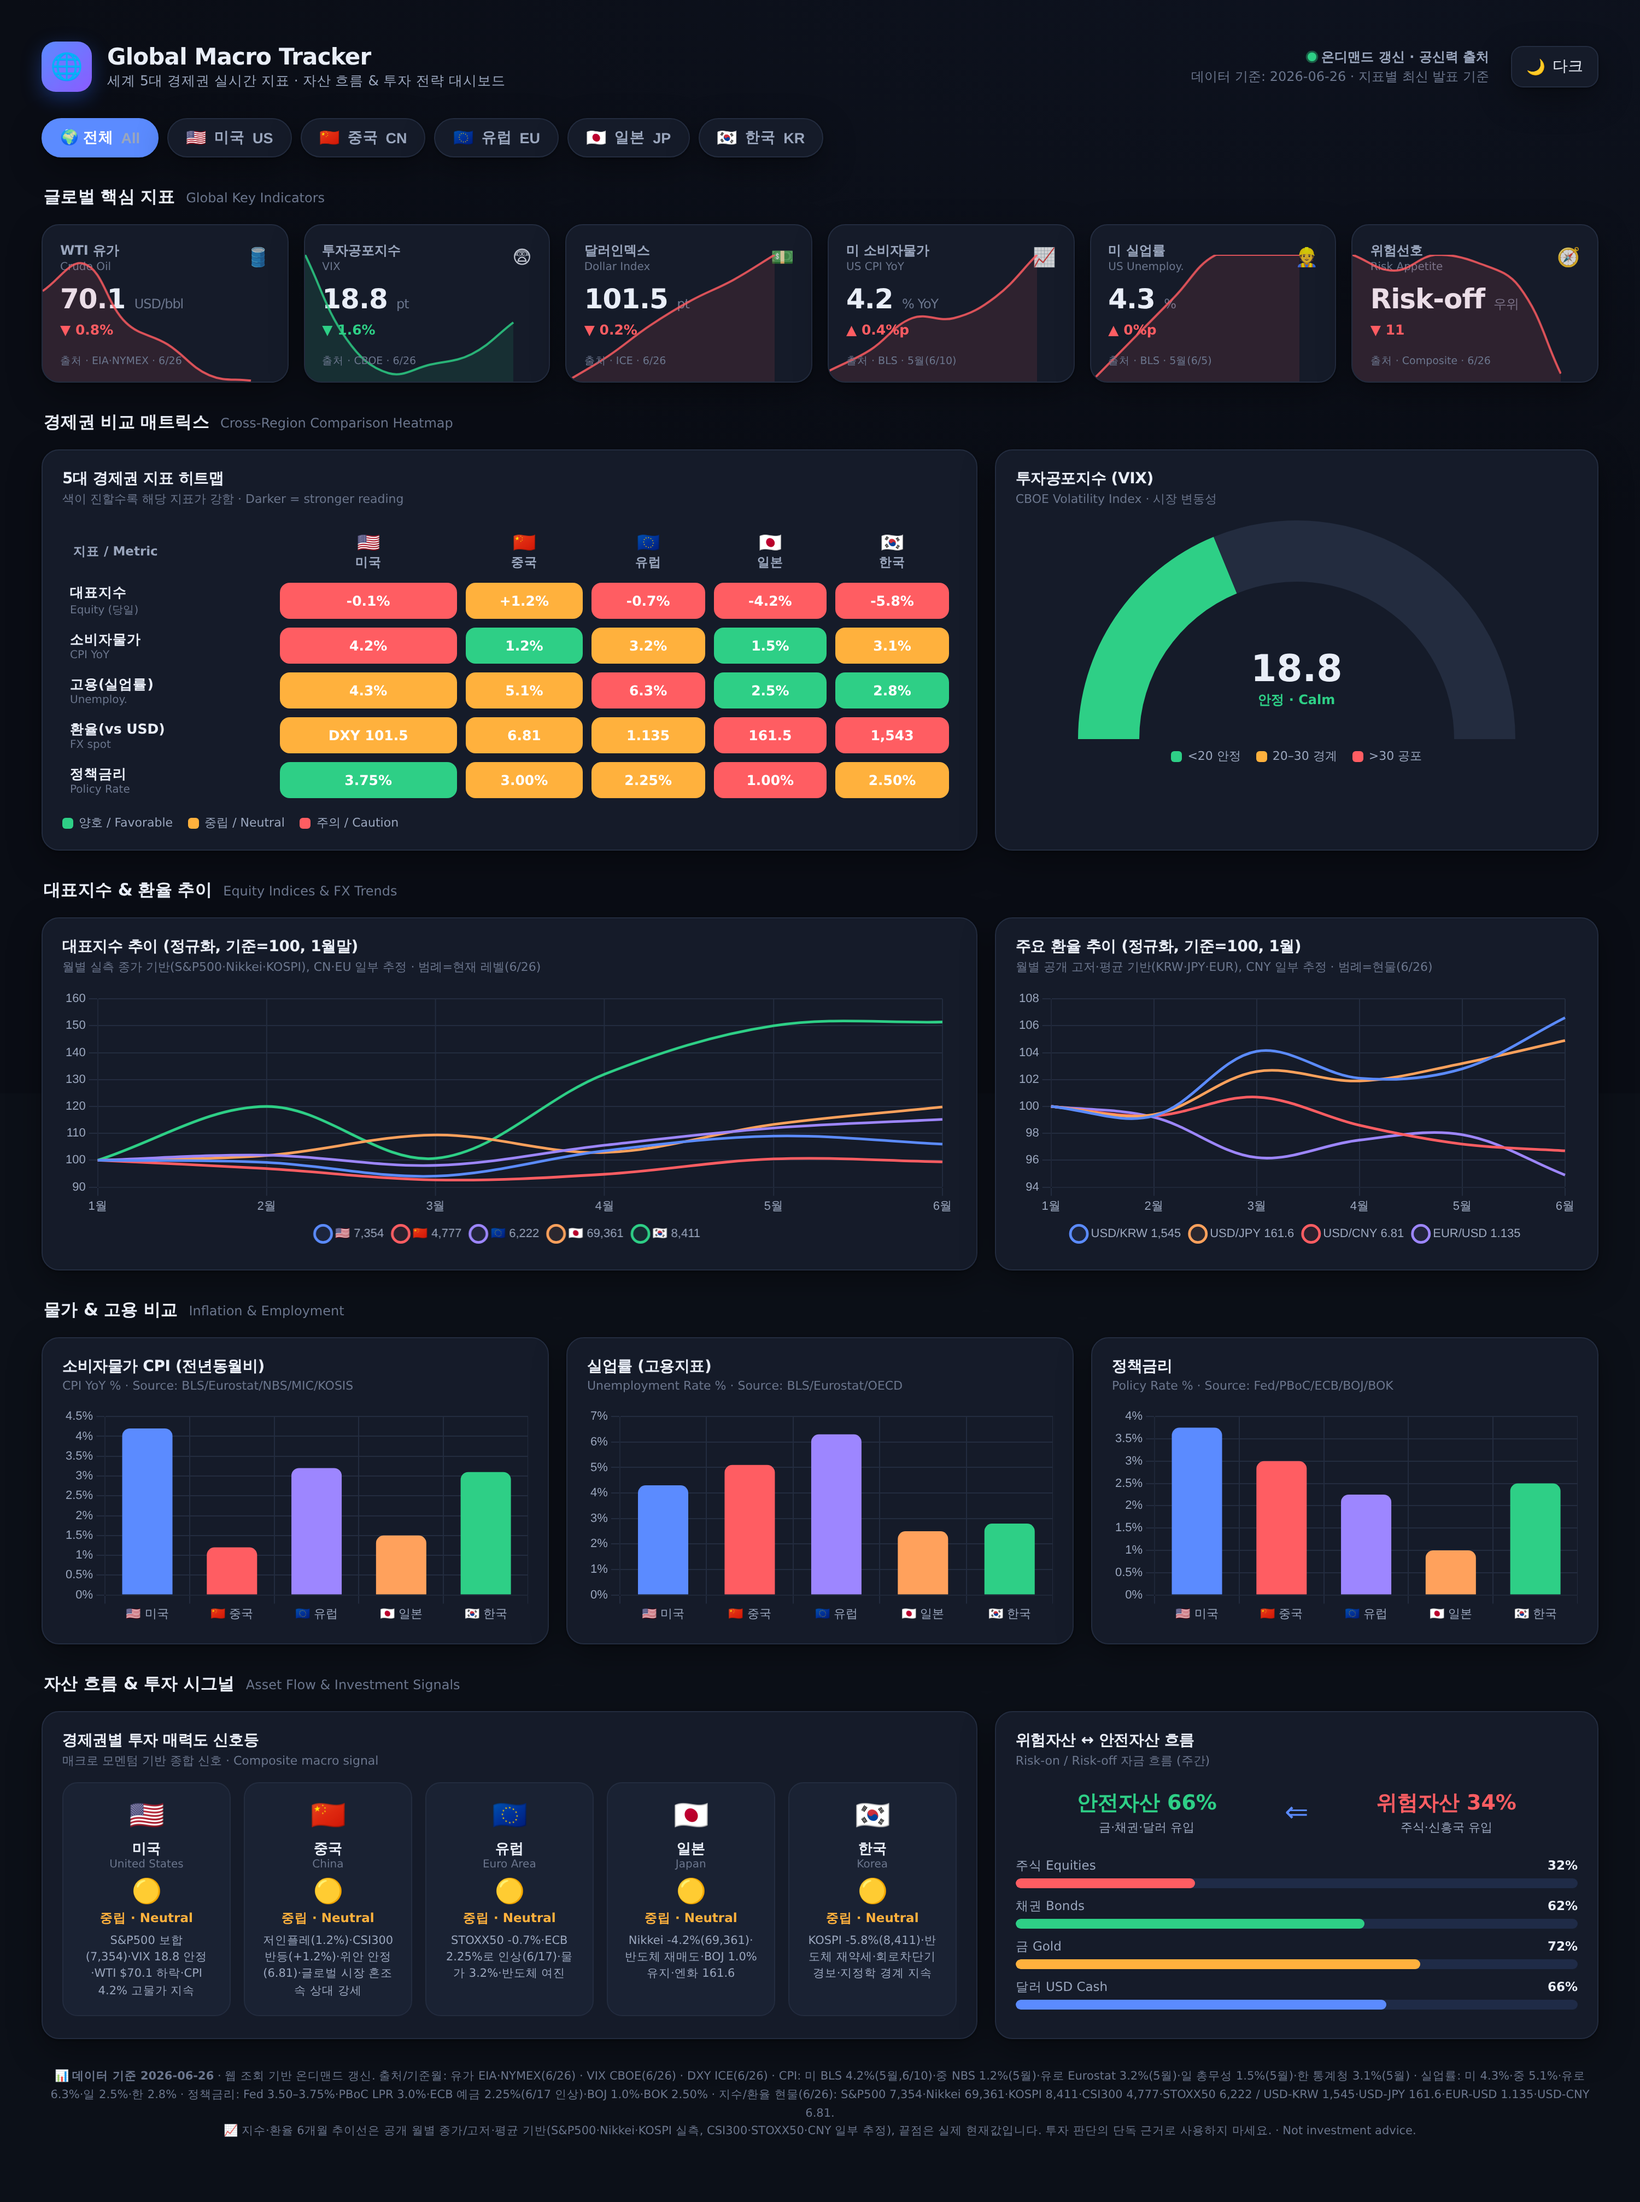
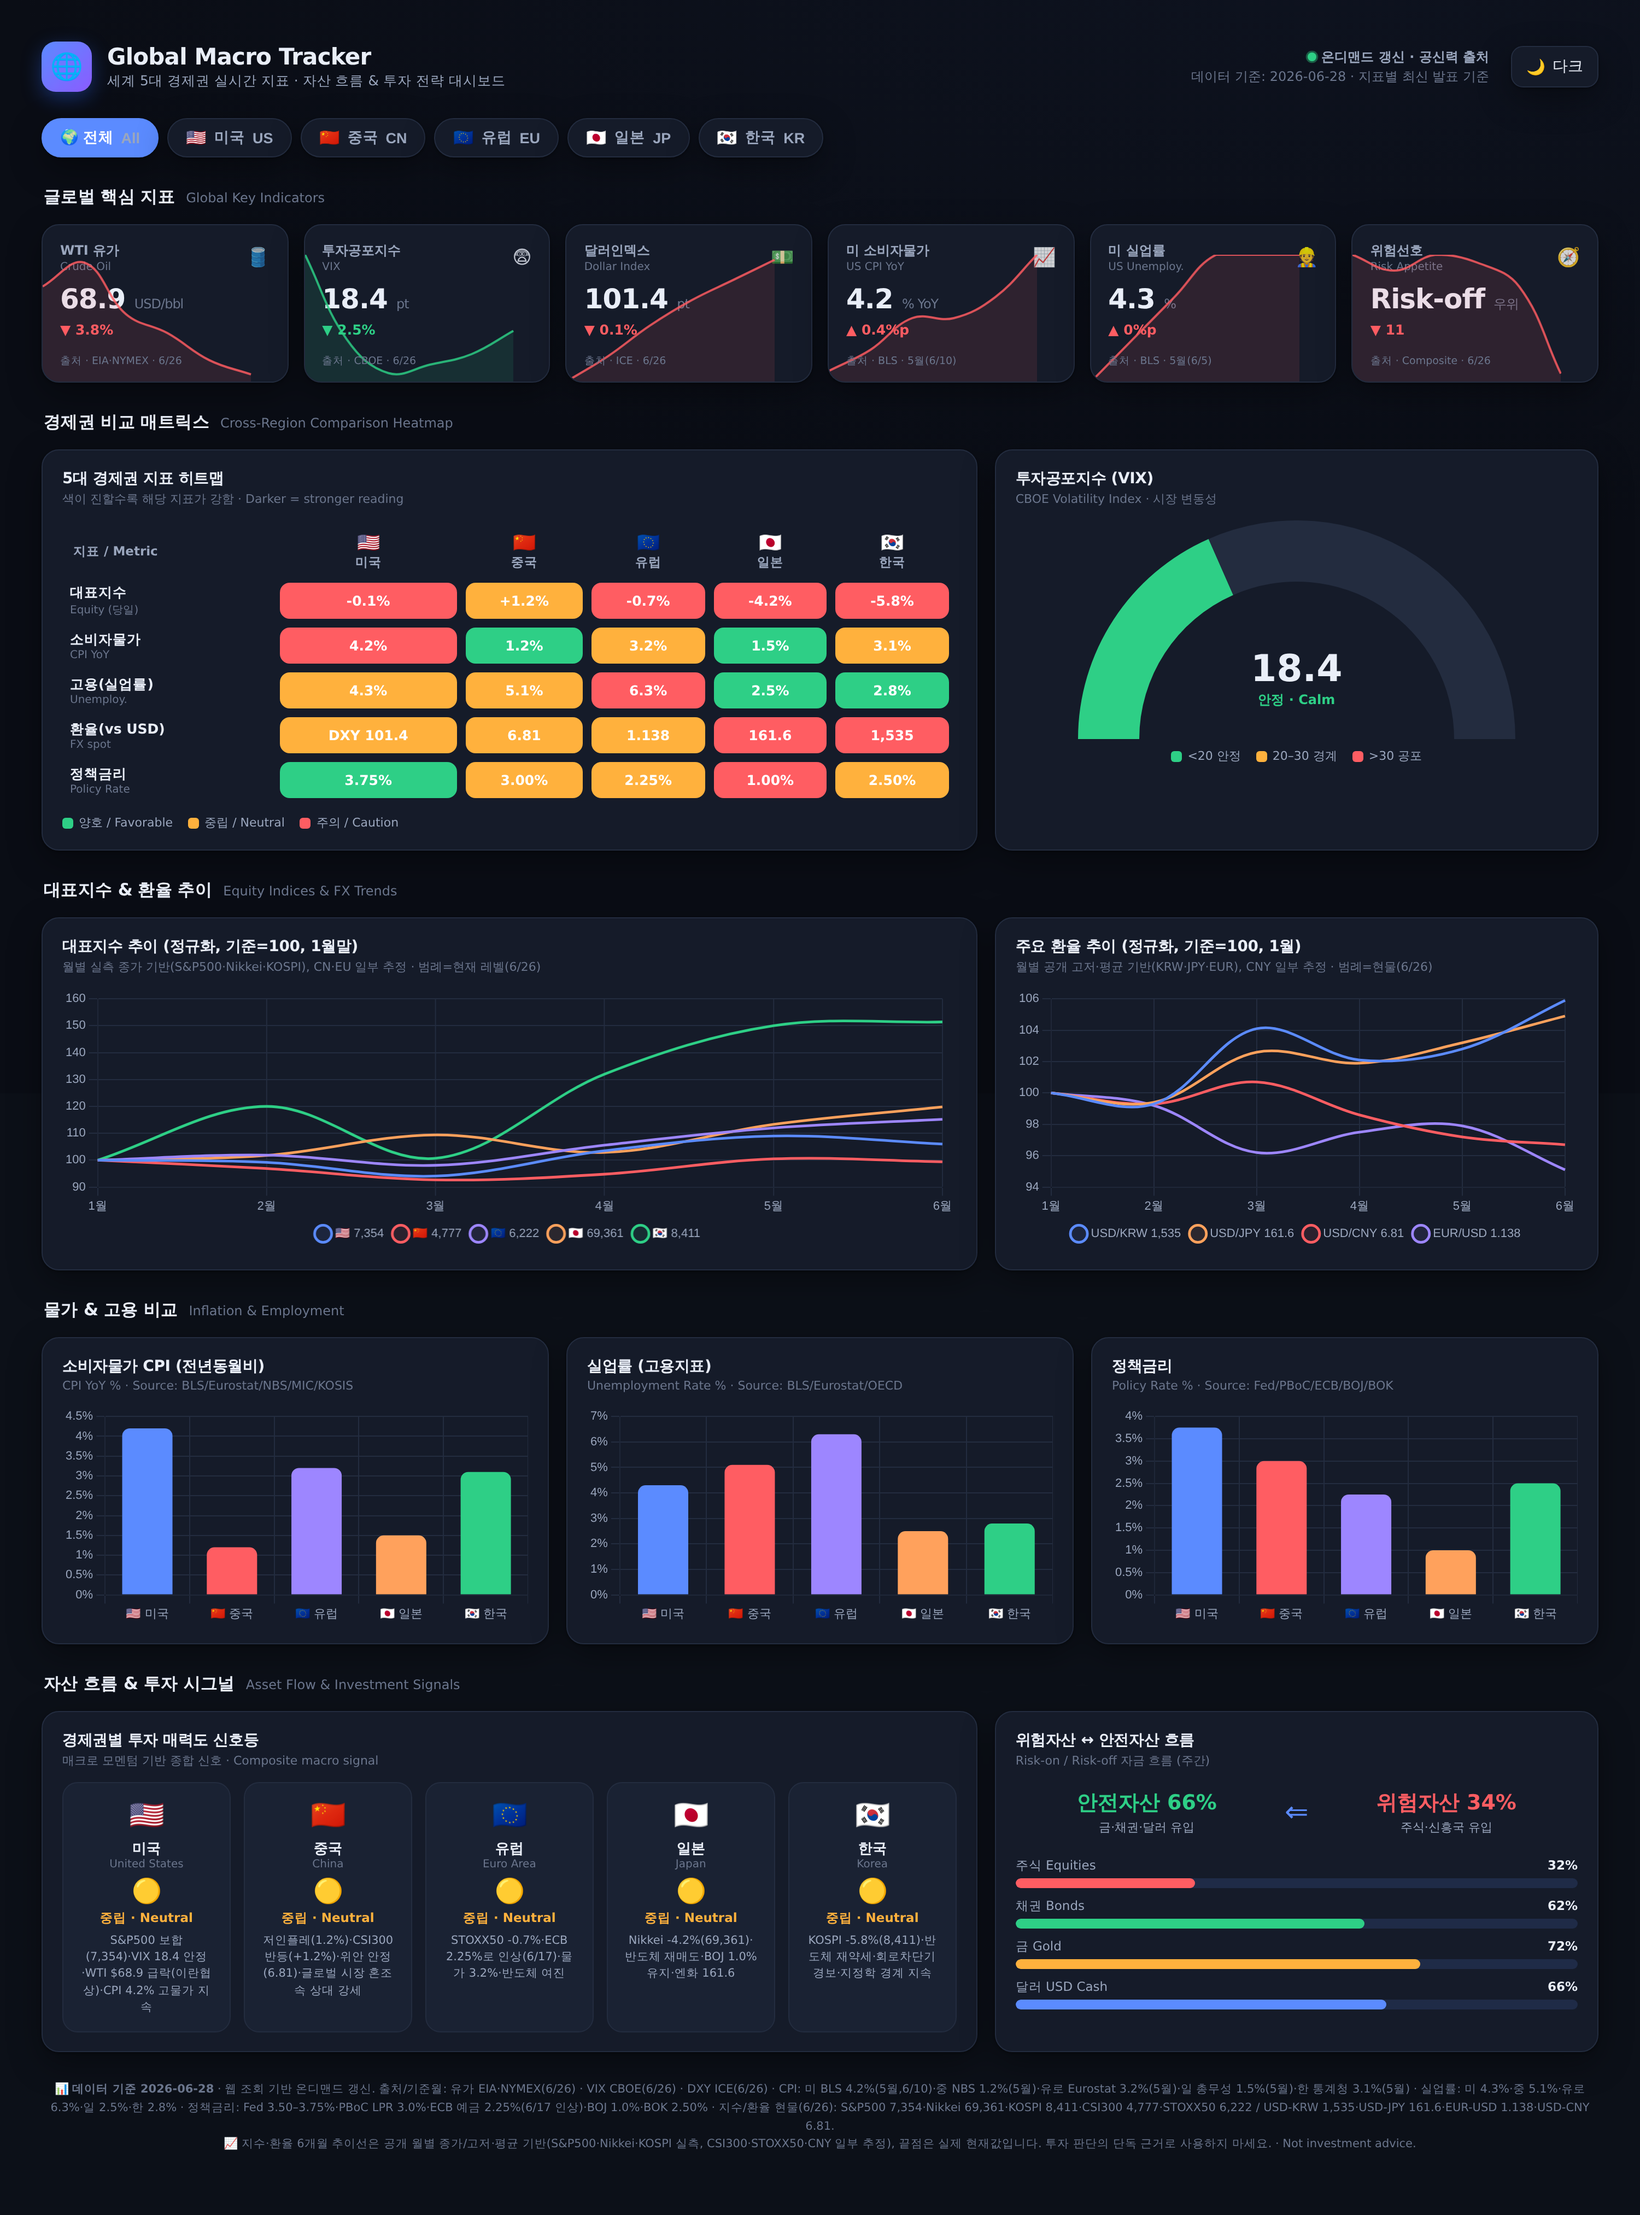
데이터 갱신 2026-06-28: WTI 급락·VIX 안정·환율 조정 (6/26 종가 최종 반영)
- WTI $70.1→$68.9 (-3.8%): 이란-미국 협상 진전으로 페르시아만 수출 재개 기대
- VIX 18.8→18.4 (-2.5%): 시장 변동성 소폭 안정
- DXY 101.5→101.4 (보합)
- USD/KRW 1,545→1,535 (원화 강세 반영)
- EUR/USD 1.135→1.138 (유로 소폭 강세)
- US 투자 신호 코멘트: WTI·VIX 최종 수치 반영
- renders/ 재생성 (콘솔 에러 0)

Claude-Session: https://claude.ai/code/session_01QmTELSbUYhZSziHeNvsTdy

diff --git a/index.html b/index.html
@@ -213,7 +213,7 @@
     <div class="spacer"></div>
     <div class="updated">
       <div><span class="live-dot"></span><b>온디맨드 갱신 · 공신력 출처</b></div>
-      <div id="updated-time">데이터 기준: 2026-06-26 · 지표별 최신 발표 기준</div>
+      <div id="updated-time">데이터 기준: 2026-06-28 · 지표별 최신 발표 기준</div>
     </div>
     <button class="theme-toggle" id="themeBtn">🌙 <span id="themeLabel">다크</span></button>
   </header>
@@ -329,12 +329,12 @@
   </div>
 
   <div class="footnote">
-    📊 <b>데이터 기준 2026-06-26</b> · 웹 조회 기반 온디맨드 갱신. 출처/기준월:
+    📊 <b>데이터 기준 2026-06-28</b> · 웹 조회 기반 온디맨드 갱신. 출처/기준월:
     유가 EIA·NYMEX(6/26) · VIX CBOE(6/26) · DXY ICE(6/26) ·
     CPI: 미 BLS 4.2%(5월,6/10)·중 NBS 1.2%(5월)·유로 Eurostat 3.2%(5월)·일 총무성 1.5%(5월)·한 통계청 3.1%(5월) ·
     실업률: 미 4.3%·중 5.1%·유로 6.3%·일 2.5%·한 2.8% ·
     정책금리: Fed 3.50–3.75%·PBoC LPR 3.0%·ECB 예금 2.25%(6/17 인상)·BOJ 1.0%·BOK 2.50% ·
-    지수/환율 현물(6/26): S&amp;P500 7,354·Nikkei 69,361·KOSPI 8,411·CSI300 4,777·STOXX50 6,222 / USD-KRW 1,545·USD-JPY 161.6·EUR-USD 1.135·USD-CNY 6.81.<br/>
+    지수/환율 현물(6/26): S&amp;P500 7,354·Nikkei 69,361·KOSPI 8,411·CSI300 4,777·STOXX50 6,222 / USD-KRW 1,535·USD-JPY 161.6·EUR-USD 1.138·USD-CNY 6.81.<br/>
     📈 지수·환율 6개월 추이선은 공개 월별 종가/고저·평균 기반(S&amp;P500·Nikkei·KOSPI 실측, CSI300·STOXX50·CNY 일부 추정), 끝점은 실제 현재값입니다. 투자 판단의 단독 근거로 사용하지 마세요. · Not investment advice.
   </div>
 </div>
@@ -356,14 +356,14 @@ const REGIONS = {
 };
 
 const DATA = {
-  // 글로벌 KPI 카드 — 2026-06-26 공신력 출처 실측치
+  // 글로벌 KPI 카드 — 2026-06-28 갱신 (시장 기준일: 6/26 종가)
   kpi: [
-    { id:'wti',  label:'WTI 유가',     en:'Crude Oil',     icon:'🛢', val:'70.1', unit:'USD/bbl', chg:-0.8, src:'EIA·NYMEX · 6/26',
-      spark:[80,83,76.5,74.1,70.7,70.1] },
-    { id:'vix',  label:'투자공포지수',  en:'VIX',           icon:'😨', val:'18.8', unit:'pt', chg:-1.6, src:'CBOE · 6/26', invert:true,
-      spark:[22,18,16.4,16.8,17.3,18.8] },
-    { id:'dxy',  label:'달러인덱스',    en:'Dollar Index',  icon:'💵', val:'101.5',unit:'pt', chg:-0.2, src:'ICE · 6/26',
-      spark:[99,99.5,100.1,100.6,101.0,101.5] },
+    { id:'wti',  label:'WTI 유가',     en:'Crude Oil',     icon:'🛢', val:'68.9', unit:'USD/bbl', chg:-3.8, src:'EIA·NYMEX · 6/26',
+      spark:[80,83,76.5,74.1,70.7,68.9] },
+    { id:'vix',  label:'투자공포지수',  en:'VIX',           icon:'😨', val:'18.4', unit:'pt', chg:-2.5, src:'CBOE · 6/26', invert:true,
+      spark:[22,18,16.4,16.8,17.3,18.4] },
+    { id:'dxy',  label:'달러인덱스',    en:'Dollar Index',  icon:'💵', val:'101.4',unit:'pt', chg:-0.1, src:'ICE · 6/26',
+      spark:[99,99.5,100.1,100.6,101.0,101.4] },
     { id:'cpi',  label:'미 소비자물가', en:'US CPI YoY',    icon:'📈', val:'4.2', unit:'% YoY', chg:+0.4, src:'BLS · 5월(6/10)', invert:true,
       spark:[3.1,3.3,3.6,3.6,3.8,4.2] },
     { id:'emp',  label:'미 실업률',     en:'US Unemploy.',  icon:'👷', val:'4.3', unit:'%', chg:0.0, src:'BLS · 5월(6/5)', invert:true,
@@ -380,7 +380,7 @@ const DATA = {
     { metric:'고용(실업률)', en:'Unemploy.', fmt:'',
       cells:{ US:{d:'4.3%',s:68}, CN:{d:'5.1%',s:55}, EU:{d:'6.3%',s:45}, JP:{d:'2.5%',s:92}, KR:{d:'2.8%',s:88} } },
     { metric:'환율(vs USD)', en:'FX spot', fmt:'',
-      cells:{ US:{d:'DXY 101.5',s:55}, CN:{d:'6.81',s:63}, EU:{d:'1.135',s:68}, JP:{d:'161.5',s:31}, KR:{d:'1,543',s:38} } },
+      cells:{ US:{d:'DXY 101.4',s:55}, CN:{d:'6.81',s:63}, EU:{d:'1.138',s:68}, JP:{d:'161.6',s:31}, KR:{d:'1,535',s:38} } },
     { metric:'정책금리', en:'Policy Rate', fmt:'',
       cells:{ US:{d:'3.75%',s:70}, CN:{d:'3.00%',s:62}, EU:{d:'2.25%',s:56}, JP:{d:'1.00%',s:40}, KR:{d:'2.50%',s:58} } },
   ],
@@ -399,10 +399,10 @@ const DATA = {
   // KRW·JPY·EUR 공개 고저/평균 기반, CNY 일부 추정. 지수 급락 여파 반영
   fx: {
     labels: MONTHS,
-    levels: { 'USD/KRW':'1,545', 'USD/JPY':'161.6', 'USD/CNY':'6.81', 'EUR/USD':'1.135' },
+    levels: { 'USD/KRW':'1,535', 'USD/JPY':'161.6', 'USD/CNY':'6.81', 'EUR/USD':'1.138' },
     series: {
-      'USD/KRW':[100,99.3,104.1,102.1,102.8,106.6], 'USD/JPY':[100,99.4,102.6,101.9,103.2,104.9],
-      'USD/CNY':[100,99.3,100.7,98.6,97.2,96.7], 'EUR/USD':[100,99.2,96.2,97.5,97.9,94.9],
+      'USD/KRW':[100,99.3,104.1,102.1,102.8,105.9], 'USD/JPY':[100,99.4,102.6,101.9,103.2,104.9],
+      'USD/CNY':[100,99.3,100.7,98.6,97.2,96.7], 'EUR/USD':[100,99.2,96.2,97.5,97.9,95.1],
     }
   },
   // CPI YoY 실측 (최신 발표월)
@@ -411,10 +411,10 @@ const DATA = {
   emp: { US:4.3, CN:5.1, EU:6.3, JP:2.5, KR:2.8 },
   // 정책금리 실측
   rate:{ US:3.75, CN:3.00, EU:2.25, JP:1.00, KR:2.50 },
-  vix: 18.8,
+  vix: 18.4,
   // 투자 시그널 신호등 — 데이터 기반 종합 판단
   signals: {
-    US:{ light:'🟡', verdict:'중립',    vEn:'Neutral',    note:'S&P500 보합(7,354)·VIX 18.8 안정·WTI $70.1 하락·CPI 4.2% 고물가 지속' },
+    US:{ light:'🟡', verdict:'중립',    vEn:'Neutral',    note:'S&P500 보합(7,354)·VIX 18.4 안정·WTI $68.9 급락(이란협상)·CPI 4.2% 고물가 지속' },
     CN:{ light:'🟡', verdict:'중립',    vEn:'Neutral',    note:'저인플레(1.2%)·CSI300 반등(+1.2%)·위안 안정(6.81)·글로벌 시장 혼조 속 상대 강세' },
     EU:{ light:'🟡', verdict:'중립',    vEn:'Neutral',    note:'STOXX50 -0.7%·ECB 2.25%로 인상(6/17)·물가 3.2%·반도체 여진' },
     JP:{ light:'🟡', verdict:'중립',    vEn:'Neutral',    note:'Nikkei -4.2%(69,361)·반도체 재매도·BOJ 1.0% 유지·엔화 161.6' },
